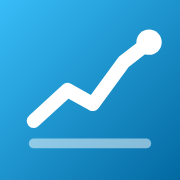
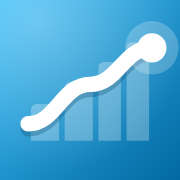
新圖示「天際曲線」：淡樓群＋平順上升曲線＋發光端點
- favicon.svg 重新設計：淡淡的城市樓群（天際線）、平順 S 形上升曲線帶柔和陰影、
  尾端亮點加光暈，背景加左上角高光；分頁小圖仍清楚
- 重新產生 icon-192／icon-512／apple-touch-icon（滿版）／maskable（圖案縮進安全區）
- 頁首標誌換成同一個圖案；底色改用固定顏色，深色模式不再變淺
- 圖示網址版本號升到 ?v=3（index.html、manifest.webmanifest、sw.js 一致），
  快取版本升到 skyline-v3，瀏覽器與已安裝的 App 會重抓新圖示

Claude-Session: https://claude.ai/code/session_01YZprTHhtmFx9DG1JEZ8nVG

diff --git a/index.html b/index.html
@@ -6,10 +6,10 @@
 <meta name="theme-color" content="#F0F7FB" media="(prefers-color-scheme: light)" />
 <meta name="theme-color" content="#0B1724" media="(prefers-color-scheme: dark)" />
 <meta name="color-scheme" content="light dark" />
-<!-- 圖示網址的 ?v= 是版本號：換圖示時一起改（sw.js 的清單也要改），瀏覽器才會重抓，不會卡在舊圖或破圖 -->
-<link rel="icon" href="favicon.svg?v=2" type="image/svg+xml" />
-<link rel="icon" href="icon-192.png?v=2" type="image/png" sizes="192x192" />
-<link rel="apple-touch-icon" href="apple-touch-icon.png?v=2" />
+<!-- 圖示網址的 ?v= 是版本號：換圖示時一起改（manifest.webmanifest 和 sw.js 的清單也要改），瀏覽器才會重抓，不會卡在舊圖或破圖 -->
+<link rel="icon" href="favicon.svg?v=3" type="image/svg+xml" />
+<link rel="icon" href="icon-192.png?v=3" type="image/png" sizes="192x192" />
+<link rel="apple-touch-icon" href="apple-touch-icon.png?v=3" />
 <link rel="manifest" href="manifest.webmanifest" />
 <meta name="apple-mobile-web-app-capable" content="yes" />
 <meta name="mobile-web-app-capable" content="yes" />
@@ -44,8 +44,8 @@
   /* ---------- Header ---------- */
   .topbar{display:flex;align-items:center;justify-content:space-between;gap:16px;}
   .brand{display:flex;align-items:center;gap:12px;}
-  .brand-mark{width:40px;height:40px;flex:0 0 40px;border-radius:11px;display:flex;align-items:center;justify-content:center;
-    background:linear-gradient(150deg,var(--sky-bright),var(--sky-deep));box-shadow:0 6px 16px -6px rgba(3,105,161,.5);}
+  .brand-mark{width:40px;height:40px;flex:0 0 40px;border-radius:9px;display:flex;align-items:center;justify-content:center;
+    background:radial-gradient(circle at 22% 12%,rgba(255,255,255,.3),rgba(255,255,255,0) 70%),linear-gradient(135deg,#38BDF8,#0369A1);box-shadow:0 6px 16px -6px rgba(3,105,161,.5);}
   .brand-name{font-family:var(--font-disp);font-weight:700;font-size:20px;line-height:1.1;}
   .brand-sub{font-size:12.5px;color:var(--muted);margin-top:2px;letter-spacing:.02em;}
   .live-pill{display:inline-flex;align-items:center;gap:7px;font-size:12px;color:var(--sky-deep);background:var(--mist-2);
@@ -539,10 +539,12 @@
   <header class="topbar">
     <div class="brand">
       <div class="brand-mark">
-        <svg width="24" height="24" viewBox="0 0 24 24" fill="none" aria-hidden="true">
-          <path d="M3 16.5 L8 12.5 L11.5 14.5 L16 8.5 L21 5" stroke="#fff" stroke-width="1.9" stroke-linecap="round" stroke-linejoin="round"/>
-          <circle cx="21" cy="5" r="1.7" fill="#fff"/>
-          <path d="M3 19.5 H21" stroke="rgba(255,255,255,.5)" stroke-width="1.4" stroke-linecap="round"/>
+        <svg width="40" height="40" viewBox="0 0 64 64" fill="none" aria-hidden="true">
+          <path fill="#fff" fill-opacity=".28" d="M11 50V39a2 2 0 0 1 2-2h6a2 2 0 0 1 2 2v11zM23 50V31a2 2 0 0 1 2-2h6a2 2 0 0 1 2 2v19zM35 50V24a2 2 0 0 1 2-2h4a2 2 0 0 1 2 2v26zM45 50V17a2 2 0 0 1 2-2h4a2 2 0 0 1 2 2v33z"/>
+          <path d="M10 44C20 44 22 30 32 30S44 17 54 17" transform="translate(0 1.8)" stroke="#0C4A6E" stroke-opacity=".3" stroke-width="5.5" stroke-linecap="round"/>
+          <path d="M10 44C20 44 22 30 32 30S44 17 54 17" stroke="#fff" stroke-width="5.5" stroke-linecap="round"/>
+          <circle cx="54" cy="17" r="9.5" fill="#fff" fill-opacity=".22"/>
+          <circle cx="54" cy="17" r="5.2" fill="#fff"/>
         </svg>
       </div>
       <div>

diff --git a/sw.js b/sw.js
@@ -3,12 +3,10 @@
 // 股價、AI 分析等後端 API 一律直接走網路、不快取，不會拿到舊資料：
 //   - GitHub Pages 版：後端在別的網域（Cloudflare Worker），本來就不攔截
 //   - Worker 版：網頁和 /api/ 在同一個網域，靠下面的白名單只處理網頁與圖示
-var CACHE = "skyline-v2";
+var CACHE = "skyline-v3";
+// 圖示網址的 ?v= 要和 index.html、manifest.webmanifest 裡的一致（換圖示時三個地方一起改）
 var SHELL = ["./", "index.html", "manifest.webmanifest",
-  // index.html 用的圖示（?v= 要和 index.html 裡的一致）
-  "favicon.svg?v=2", "icon-192.png?v=2", "apple-touch-icon.png?v=2",
-  // manifest.webmanifest 用的圖示
-  "favicon.svg", "icon-192.png", "icon-512.png", "icon-maskable-512.png"];
+  "favicon.svg?v=3", "icon-192.png?v=3", "icon-512.png?v=3", "icon-maskable-512.png?v=3", "apple-touch-icon.png?v=3"];
 
 self.addEventListener("install", function(e){
   e.waitUntil(caches.open(CACHE).then(function(c){ return c.addAll(SHELL); }).then(function(){ return self.skipWaiting(); }));
